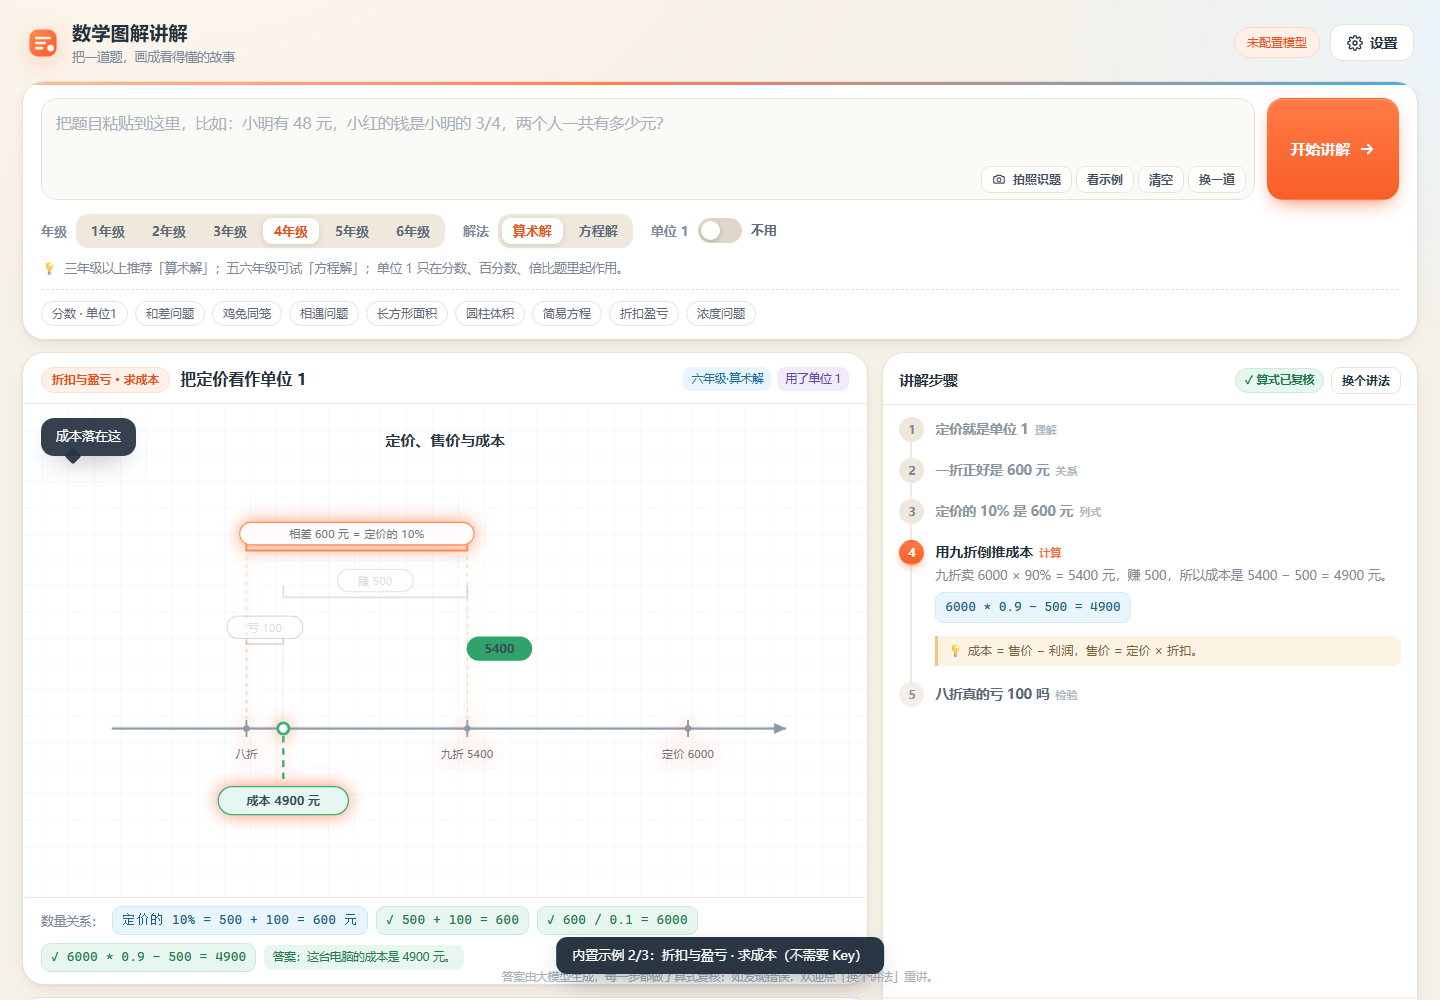
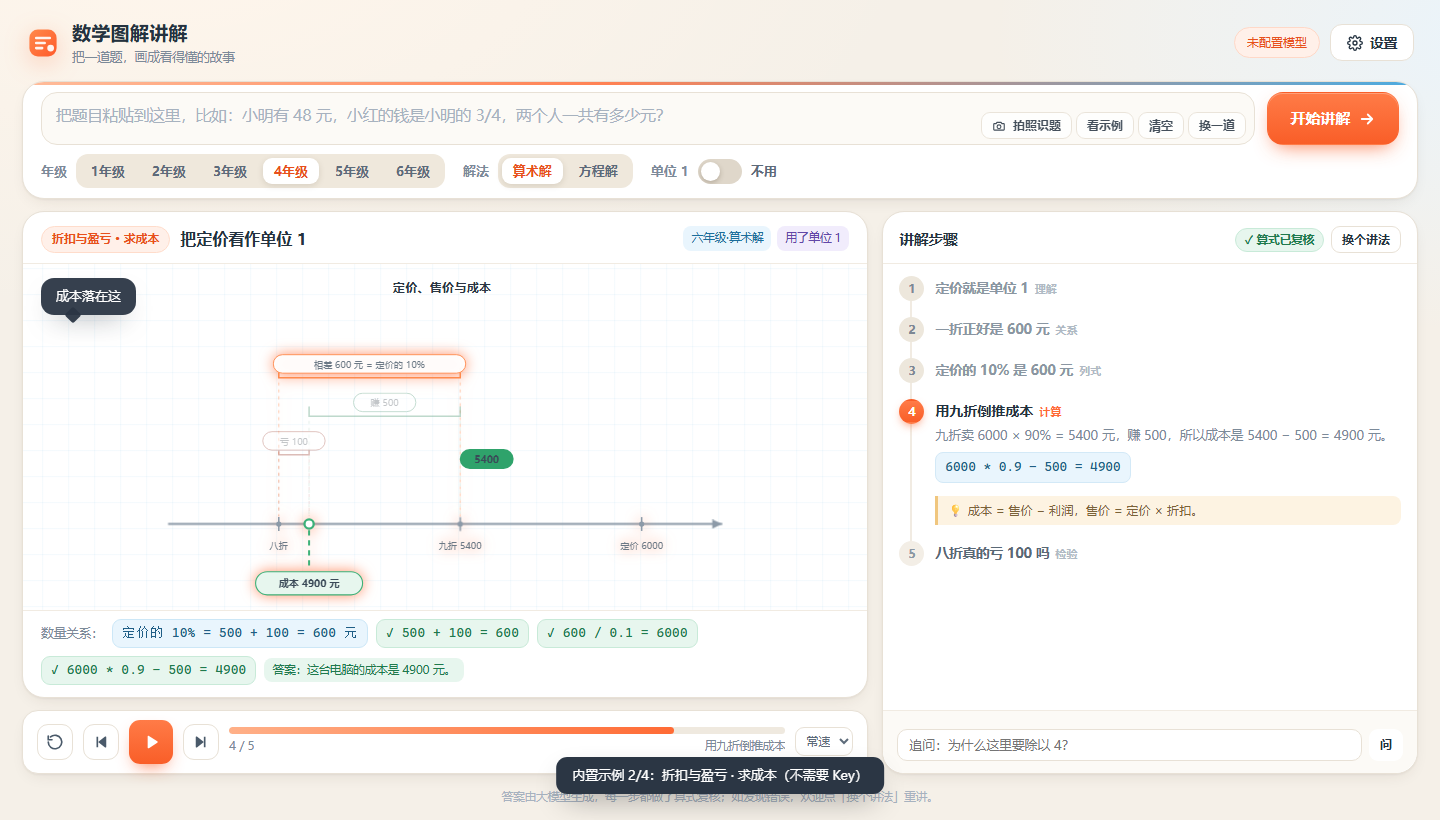
fix: 图解字号过小 —— viewBox 自动贴合内容 + 讲题后收起输入区
- 新增 diagrams.fit()：渲染完成后按内容真实 bbox 收紧 viewBox，
  同样大小的舞台里内容占比从 45% 提到 90% 以上，字号随之放大
- 讲题结果出来后输入区自动收起（输入框一行、隐藏提示与示例），
  把约 140px 高度让给图解；点输入框或换题会重新展开
- 浓度条：去掉标题与条形之间约 80px 的空白，说明文字紧贴条形下方
- tests/fit-test.html：量测 bbox / viewBox 的最小页面，便于以后回归
- 自测 65 项

diff --git a/dist/math-tutor.html b/dist/math-tutor.html
@@ -191,6 +191,15 @@ button{font-family:inherit}
 }
 .example:hover{border-color:#FFC3A8;color:var(--brand-deep);background:var(--brand-soft)}
 
+/* 出结果后收起输入区，把高度让给图解 */
+.ask.compact{padding:10px 18px 10px}
+.ask.compact #problem{height:44px;min-height:44px;padding:10px 14px;resize:none}
+.ask.compact .ask-tools{bottom:5px}
+.ask.compact .solve{min-height:44px}
+.ask.compact .hint{display:none}
+.ask.compact .examples{display:none}
+.ask.compact .controls{margin-top:9px}
+
 /* 拍照识题 */
 .ask.dragover{border-color:#FFB392;box-shadow:0 0 0 4px rgba(255,107,53,.12)}
 .ask.dragover::after{
@@ -544,7 +553,7 @@ input[type=range]{width:100%;accent-color:var(--brand)}
 <!--
   数学图解讲解 · Math Tutor
   单文件版本，由 build.mjs 从 src/ 生成，请勿直接编辑本文件。
-  构建版本：b908a3ad
+  构建版本：ea2b4bf1
   许可：MIT
 -->
 
@@ -3015,7 +3024,7 @@ ${answerMsg}
     const svg = s('svg', { viewBox: `0 0 ${W} ${H}`, class: 'dg' });
     title(svg, spec.title);
     const x0 = 196, barW = 600, h = 58;
-    const startY = spec.rows.length > 1 ? 148 : 210;
+    const startY = 130;   // 紧贴标题下方，别留一大片空白
     const rowH = 132;
 
     spec.rows.forEach((r, i) => {
@@ -3048,8 +3057,11 @@ ${answerMsg}
     });
 
     if (spec.note) {
-      svg.appendChild(pill(W / 2 - 200, 452, 400, 38, '#FFF8F2', '#FFC9AC'));
-      svg.appendChild(text(W / 2, 477, spec.note, 'note', { fill: '#B4551F' }));
+      // 紧跟在最后一根条下面，别在画布底部留一大片空白
+      const ny = startY + spec.rows.length * rowH - 30;
+      const nw = Math.max(320, spec.note.length * 15 + 40);
+      svg.appendChild(pill(W / 2 - nw / 2, ny, nw, 38, '#FFF8F2', '#FFC9AC'));
+      svg.appendChild(text(W / 2, ny + 25, spec.note, 'note', { fill: '#B4551F' }));
     }
     return svg;
   }
@@ -3162,7 +3174,19 @@ ${answerMsg}
     return { svg, reg };
   }
 
-  MT.diagrams = { render, COLORS: C, W, H };
+  /** 把 viewBox 收缩到内容真实范围：留白越少，同样舞台里字就越大 */
+  function fit(svg, pad) {
+    pad = pad == null ? 26 : pad;
+    let bb;
+    try { bb = svg.getBBox(); } catch (e) { return null; }
+    if (!bb || bb.width < 20 || bb.height < 20) return null;
+    const w = bb.width + pad * 2;
+    const h = bb.height + pad * 2;
+    svg.setAttribute('viewBox', `${bb.x - pad} ${bb.y - pad} ${w} ${h}`);
+    return { w, h };
+  }
+
+  MT.diagrams = { render, fit, COLORS: C, W, H };
 })();
 
 
@@ -3205,6 +3229,8 @@ ${answerMsg}
       const { svg, reg } = MT.diagrams.render(sp);
       this.handle = { svg, reg };
       this.host.appendChild(svg);
+      // 进 DOM 之后量一次实际内容范围，再据此收紧 viewBox
+      if (MT.diagrams.fit) MT.diagrams.fit(svg, 20);
       if (swap) svg.classList.add('swap-in');
       this.svg = svg;
       this.index = -1;
@@ -3596,6 +3622,11 @@ ${answerMsg}
     }
   }
 
+  function setCompact(on) {
+    const ask = $('.ask');
+    if (ask) ask.classList.toggle('compact', !!on);
+  }
+
   /* ---------------- 渲染一节课 ---------------- */
   function render(res) {
     const script = res.script;
@@ -3657,6 +3688,7 @@ ${answerMsg}
     $('#btnRethink').hidden = false;
 
     state.player.goto(0, true);
+    setCompact(true);
   }
 
   function renderSteps(script, verify) {
@@ -4086,15 +4118,17 @@ ${answerMsg}
     updateHint();
 
     $('#btnSolve').addEventListener('click', () => solve());
+    $('#problem').addEventListener('focus', () => setCompact(false));
     $('#problem').addEventListener('keydown', (e) => {
       if ((e.ctrlKey || e.metaKey) && e.key === 'Enter') solve();
     });
     $('#btnClear').addEventListener('click', () => {
       $('#problem').value = '';
       clearShot();
+      setCompact(false);
       $('#problem').focus();
     });
-    $('#btnRandom').addEventListener('click', randomExample);
+    $('#btnRandom').addEventListener('click', () => { setCompact(false); randomExample(); });
     $('#btnRethink').addEventListener('click', () => {
       solve({ nudge: '换一种更直观的讲解顺序，多用图上的动作，少讲抽象的话。' });
     });

diff --git a/dist/math-tutor.js b/dist/math-tutor.js
@@ -2192,7 +2192,7 @@ ${answerMsg}
     const svg = s('svg', { viewBox: `0 0 ${W} ${H}`, class: 'dg' });
     title(svg, spec.title);
     const x0 = 196, barW = 600, h = 58;
-    const startY = spec.rows.length > 1 ? 148 : 210;
+    const startY = 130;   // 紧贴标题下方，别留一大片空白
     const rowH = 132;
 
     spec.rows.forEach((r, i) => {
@@ -2225,8 +2225,11 @@ ${answerMsg}
     });
 
     if (spec.note) {
-      svg.appendChild(pill(W / 2 - 200, 452, 400, 38, '#FFF8F2', '#FFC9AC'));
-      svg.appendChild(text(W / 2, 477, spec.note, 'note', { fill: '#B4551F' }));
+      // 紧跟在最后一根条下面，别在画布底部留一大片空白
+      const ny = startY + spec.rows.length * rowH - 30;
+      const nw = Math.max(320, spec.note.length * 15 + 40);
+      svg.appendChild(pill(W / 2 - nw / 2, ny, nw, 38, '#FFF8F2', '#FFC9AC'));
+      svg.appendChild(text(W / 2, ny + 25, spec.note, 'note', { fill: '#B4551F' }));
     }
     return svg;
   }
@@ -2339,7 +2342,19 @@ ${answerMsg}
     return { svg, reg };
   }
 
-  MT.diagrams = { render, COLORS: C, W, H };
+  /** 把 viewBox 收缩到内容真实范围：留白越少，同样舞台里字就越大 */
+  function fit(svg, pad) {
+    pad = pad == null ? 26 : pad;
+    let bb;
+    try { bb = svg.getBBox(); } catch (e) { return null; }
+    if (!bb || bb.width < 20 || bb.height < 20) return null;
+    const w = bb.width + pad * 2;
+    const h = bb.height + pad * 2;
+    svg.setAttribute('viewBox', `${bb.x - pad} ${bb.y - pad} ${w} ${h}`);
+    return { w, h };
+  }
+
+  MT.diagrams = { render, fit, COLORS: C, W, H };
 })();
 
 
@@ -2382,6 +2397,8 @@ ${answerMsg}
       const { svg, reg } = MT.diagrams.render(sp);
       this.handle = { svg, reg };
       this.host.appendChild(svg);
+      // 进 DOM 之后量一次实际内容范围，再据此收紧 viewBox
+      if (MT.diagrams.fit) MT.diagrams.fit(svg, 20);
       if (swap) svg.classList.add('swap-in');
       this.svg = svg;
       this.index = -1;
@@ -2773,6 +2790,11 @@ ${answerMsg}
     }
   }
 
+  function setCompact(on) {
+    const ask = $('.ask');
+    if (ask) ask.classList.toggle('compact', !!on);
+  }
+
   /* ---------------- 渲染一节课 ---------------- */
   function render(res) {
     const script = res.script;
@@ -2834,6 +2856,7 @@ ${answerMsg}
     $('#btnRethink').hidden = false;
 
     state.player.goto(0, true);
+    setCompact(true);
   }
 
   function renderSteps(script, verify) {
@@ -3263,15 +3286,17 @@ ${answerMsg}
     updateHint();
 
     $('#btnSolve').addEventListener('click', () => solve());
+    $('#problem').addEventListener('focus', () => setCompact(false));
     $('#problem').addEventListener('keydown', (e) => {
       if ((e.ctrlKey || e.metaKey) && e.key === 'Enter') solve();
     });
     $('#btnClear').addEventListener('click', () => {
       $('#problem').value = '';
       clearShot();
+      setCompact(false);
       $('#problem').focus();
     });
-    $('#btnRandom').addEventListener('click', randomExample);
+    $('#btnRandom').addEventListener('click', () => { setCompact(false); randomExample(); });
     $('#btnRethink').addEventListener('click', () => {
       solve({ nudge: '换一种更直观的讲解顺序，多用图上的动作，少讲抽象的话。' });
     });

diff --git a/tests/fit-test.html b/tests/fit-test.html
@@ -1,0 +1,53 @@
+<!DOCTYPE html>
+<html lang="zh-CN">
+<head>
+<meta charset="utf-8" />
+<title>fit 量测</title>
+<link rel="stylesheet" href="../src/styles.css" />
+<style>
+  html,body{height:auto;background:#fff}
+  body{padding:20px;font-family:monospace}
+  #host{width:840px;height:390px;position:relative;border:1px solid #ddd;margin-bottom:12px}
+  #host svg{position:absolute;inset:0;width:100%;height:100%}
+  #log{font-size:15px;line-height:1.9;white-space:pre-wrap}
+</style>
+</head>
+<body>
+<div id="host"></div>
+<div id="log">测量中…</div>
+<script src="../dist/math-tutor.js"></script>
+<script>
+  const spec = MT.schema.normalize({
+    meta: {}, problem: {}, steps: [{ title: 'x' }], answer: {},
+    diagram: {
+      type: 'percentbar', title: '乙容器里的溶液', note: '水从头到尾都是 18 kg',
+      rows: [{
+        id: 'yi', label: '乙容器', total: '? kg',
+        segments: [
+          { id: 'yi-a', pct: 25, label: '酒精 ?', color: 'orange' },
+          { id: 'yi-w', pct: 75, label: '水 18 kg', color: 'blue' }
+        ]
+      }]
+    }
+  }).script.diagram;
+
+  const { svg } = MT.diagrams.render(spec);
+  const host = document.getElementById('host');
+  host.appendChild(svg);
+
+  const before = svg.getAttribute('viewBox');
+  let bbox = 'n/a';
+  try { const b = svg.getBBox(); bbox = `${Math.round(b.x)},${Math.round(b.y)} ${Math.round(b.width)}×${Math.round(b.height)}`; }
+  catch (e) { bbox = 'ERR ' + e.name + ': ' + e.message; }
+  const r = MT.diagrams.fit(svg, 26);
+  const after = svg.getAttribute('viewBox');
+
+  document.getElementById('log').textContent =
+    `hasFit: ${typeof MT.diagrams.fit}\n` +
+    `bbox: ${bbox}\n` +
+    `viewBox 前: ${before}\n` +
+    `viewBox 后: ${after}\n` +
+    `fit 返回: ${JSON.stringify(r)}`;
+</script>
+</body>
+</html>

diff --git a/src/js/60-diagrams.js b/src/js/60-diagrams.js
@@ -510,7 +510,7 @@
     const svg = s('svg', { viewBox: `0 0 ${W} ${H}`, class: 'dg' });
     title(svg, spec.title);
     const x0 = 196, barW = 600, h = 58;
-    const startY = spec.rows.length > 1 ? 148 : 210;
+    const startY = 130;   // 紧贴标题下方，别留一大片空白
     const rowH = 132;
 
     spec.rows.forEach((r, i) => {
@@ -543,8 +543,11 @@
     });
 
     if (spec.note) {
-      svg.appendChild(pill(W / 2 - 200, 452, 400, 38, '#FFF8F2', '#FFC9AC'));
-      svg.appendChild(text(W / 2, 477, spec.note, 'note', { fill: '#B4551F' }));
+      // 紧跟在最后一根条下面，别在画布底部留一大片空白
+      const ny = startY + spec.rows.length * rowH - 30;
+      const nw = Math.max(320, spec.note.length * 15 + 40);
+      svg.appendChild(pill(W / 2 - nw / 2, ny, nw, 38, '#FFF8F2', '#FFC9AC'));
+      svg.appendChild(text(W / 2, ny + 25, spec.note, 'note', { fill: '#B4551F' }));
     }
     return svg;
   }
@@ -657,5 +660,17 @@
     return { svg, reg };
   }
 
-  MT.diagrams = { render, COLORS: C, W, H };
+  /** 把 viewBox 收缩到内容真实范围：留白越少，同样舞台里字就越大 */
+  function fit(svg, pad) {
+    pad = pad == null ? 26 : pad;
+    let bb;
+    try { bb = svg.getBBox(); } catch (e) { return null; }
+    if (!bb || bb.width < 20 || bb.height < 20) return null;
+    const w = bb.width + pad * 2;
+    const h = bb.height + pad * 2;
+    svg.setAttribute('viewBox', `${bb.x - pad} ${bb.y - pad} ${w} ${h}`);
+    return { w, h };
+  }
+
+  MT.diagrams = { render, fit, COLORS: C, W, H };
 })();

diff --git a/src/js/80-app.js b/src/js/80-app.js
@@ -185,6 +185,11 @@
     }
   }
 
+  function setCompact(on) {
+    const ask = $('.ask');
+    if (ask) ask.classList.toggle('compact', !!on);
+  }
+
   /* ---------------- 渲染一节课 ---------------- */
   function render(res) {
     const script = res.script;
@@ -246,6 +251,7 @@
     $('#btnRethink').hidden = false;
 
     state.player.goto(0, true);
+    setCompact(true);
   }
 
   function renderSteps(script, verify) {
@@ -675,15 +681,17 @@
     updateHint();
 
     $('#btnSolve').addEventListener('click', () => solve());
+    $('#problem').addEventListener('focus', () => setCompact(false));
     $('#problem').addEventListener('keydown', (e) => {
       if ((e.ctrlKey || e.metaKey) && e.key === 'Enter') solve();
     });
     $('#btnClear').addEventListener('click', () => {
       $('#problem').value = '';
       clearShot();
+      setCompact(false);
       $('#problem').focus();
     });
-    $('#btnRandom').addEventListener('click', randomExample);
+    $('#btnRandom').addEventListener('click', () => { setCompact(false); randomExample(); });
     $('#btnRethink').addEventListener('click', () => {
       solve({ nudge: '换一种更直观的讲解顺序，多用图上的动作，少讲抽象的话。' });
     });

diff --git a/src/styles.css b/src/styles.css
@@ -183,6 +183,15 @@ button{font-family:inherit}
 }
 .example:hover{border-color:#FFC3A8;color:var(--brand-deep);background:var(--brand-soft)}
 
+/* 出结果后收起输入区，把高度让给图解 */
+.ask.compact{padding:10px 18px 10px}
+.ask.compact #problem{height:44px;min-height:44px;padding:10px 14px;resize:none}
+.ask.compact .ask-tools{bottom:5px}
+.ask.compact .solve{min-height:44px}
+.ask.compact .hint{display:none}
+.ask.compact .examples{display:none}
+.ask.compact .controls{margin-top:9px}
+
 /* 拍照识题 */
 .ask.dragover{border-color:#FFB392;box-shadow:0 0 0 4px rgba(255,107,53,.12)}
 .ask.dragover::after{

diff --git a/src/js/70-player.js b/src/js/70-player.js
@@ -36,6 +36,8 @@
       const { svg, reg } = MT.diagrams.render(sp);
       this.handle = { svg, reg };
       this.host.appendChild(svg);
+      // 进 DOM 之后量一次实际内容范围，再据此收紧 viewBox
+      if (MT.diagrams.fit) MT.diagrams.fit(svg, 20);
       if (swap) svg.classList.add('swap-in');
       this.svg = svg;
       this.index = -1;

diff --git a/tests/preview.html b/tests/preview.html
@@ -92,6 +92,7 @@ samples.forEach(([cap, spec]) => {
   cell.innerHTML = '<div class="cap">' + cap + '</div>';
   const { svg } = MT.diagrams.render(MT.schema.normalize({ meta:{}, problem:{}, diagram: spec, steps:[{title:'x'}], answer:{} }).script.diagram);
   cell.appendChild(svg);
+  MT.diagrams.fit(svg, 18);
   grid.appendChild(cell);
 });
 </script>
